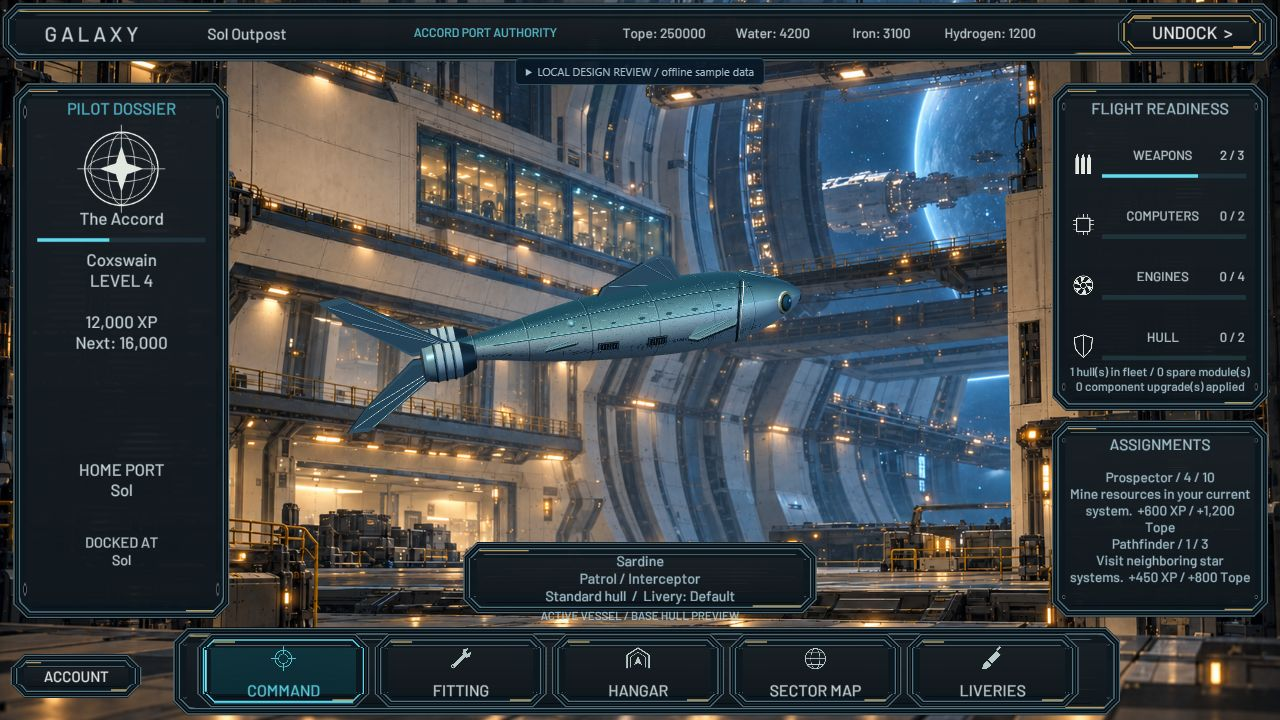
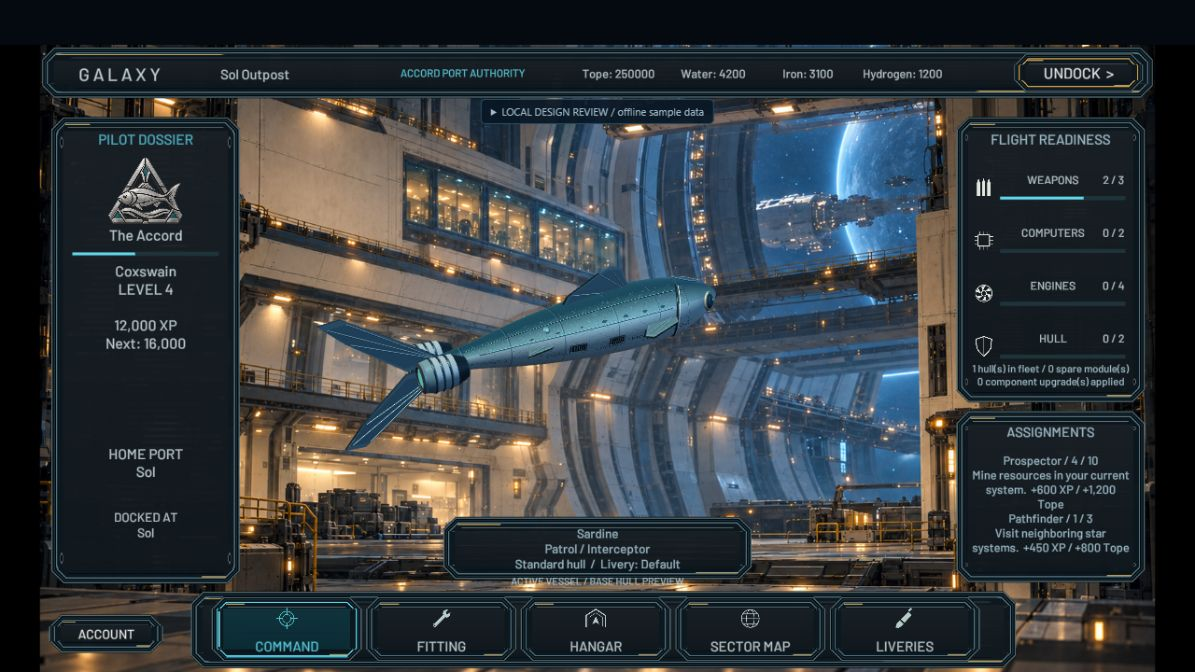
Use approved Accord and Swarm faction insignias

diff --git a/docs/STATION_UI.md b/docs/STATION_UI.md
@@ -101,3 +101,14 @@ removed. Accord retains ivory/navy/brass structural character; Swarm replaces
 that character with graphite ribs and layered radiator vanes. The exact source
 image dimensions and SHA-256 hashes are recorded in `artifacts/station-console/assets.json`.
 Panel surfaces and icons are code-authored in the deterministic Python tool.
+
+## Approved faction insignias
+
+The dossier uses the user-supplied fish insignia for Accord and bird insignia
+for Swarm. Both transparent 1254 x 1254 originals are preserved byte-for-byte
+under `artifacts/faction-logos/`, with source hashes in `manifest.json`.
+`main/ui/faction_logos/` contains 256 x 256 runtime imports, retaining the
+original square aspect, artwork, colors and transparency. The logo is drawn
+without tint and switches with the faction. These replace the generic orbital
+placeholder; the decorative orbital asset remains available but unused here.
+The separate logo atlas adds 2,097,201 bytes (about 2 MiB) of compiled texture resource with the current HTML5 settings. The original high-resolution copies are documentation assets and are not referenced by the runtime.
